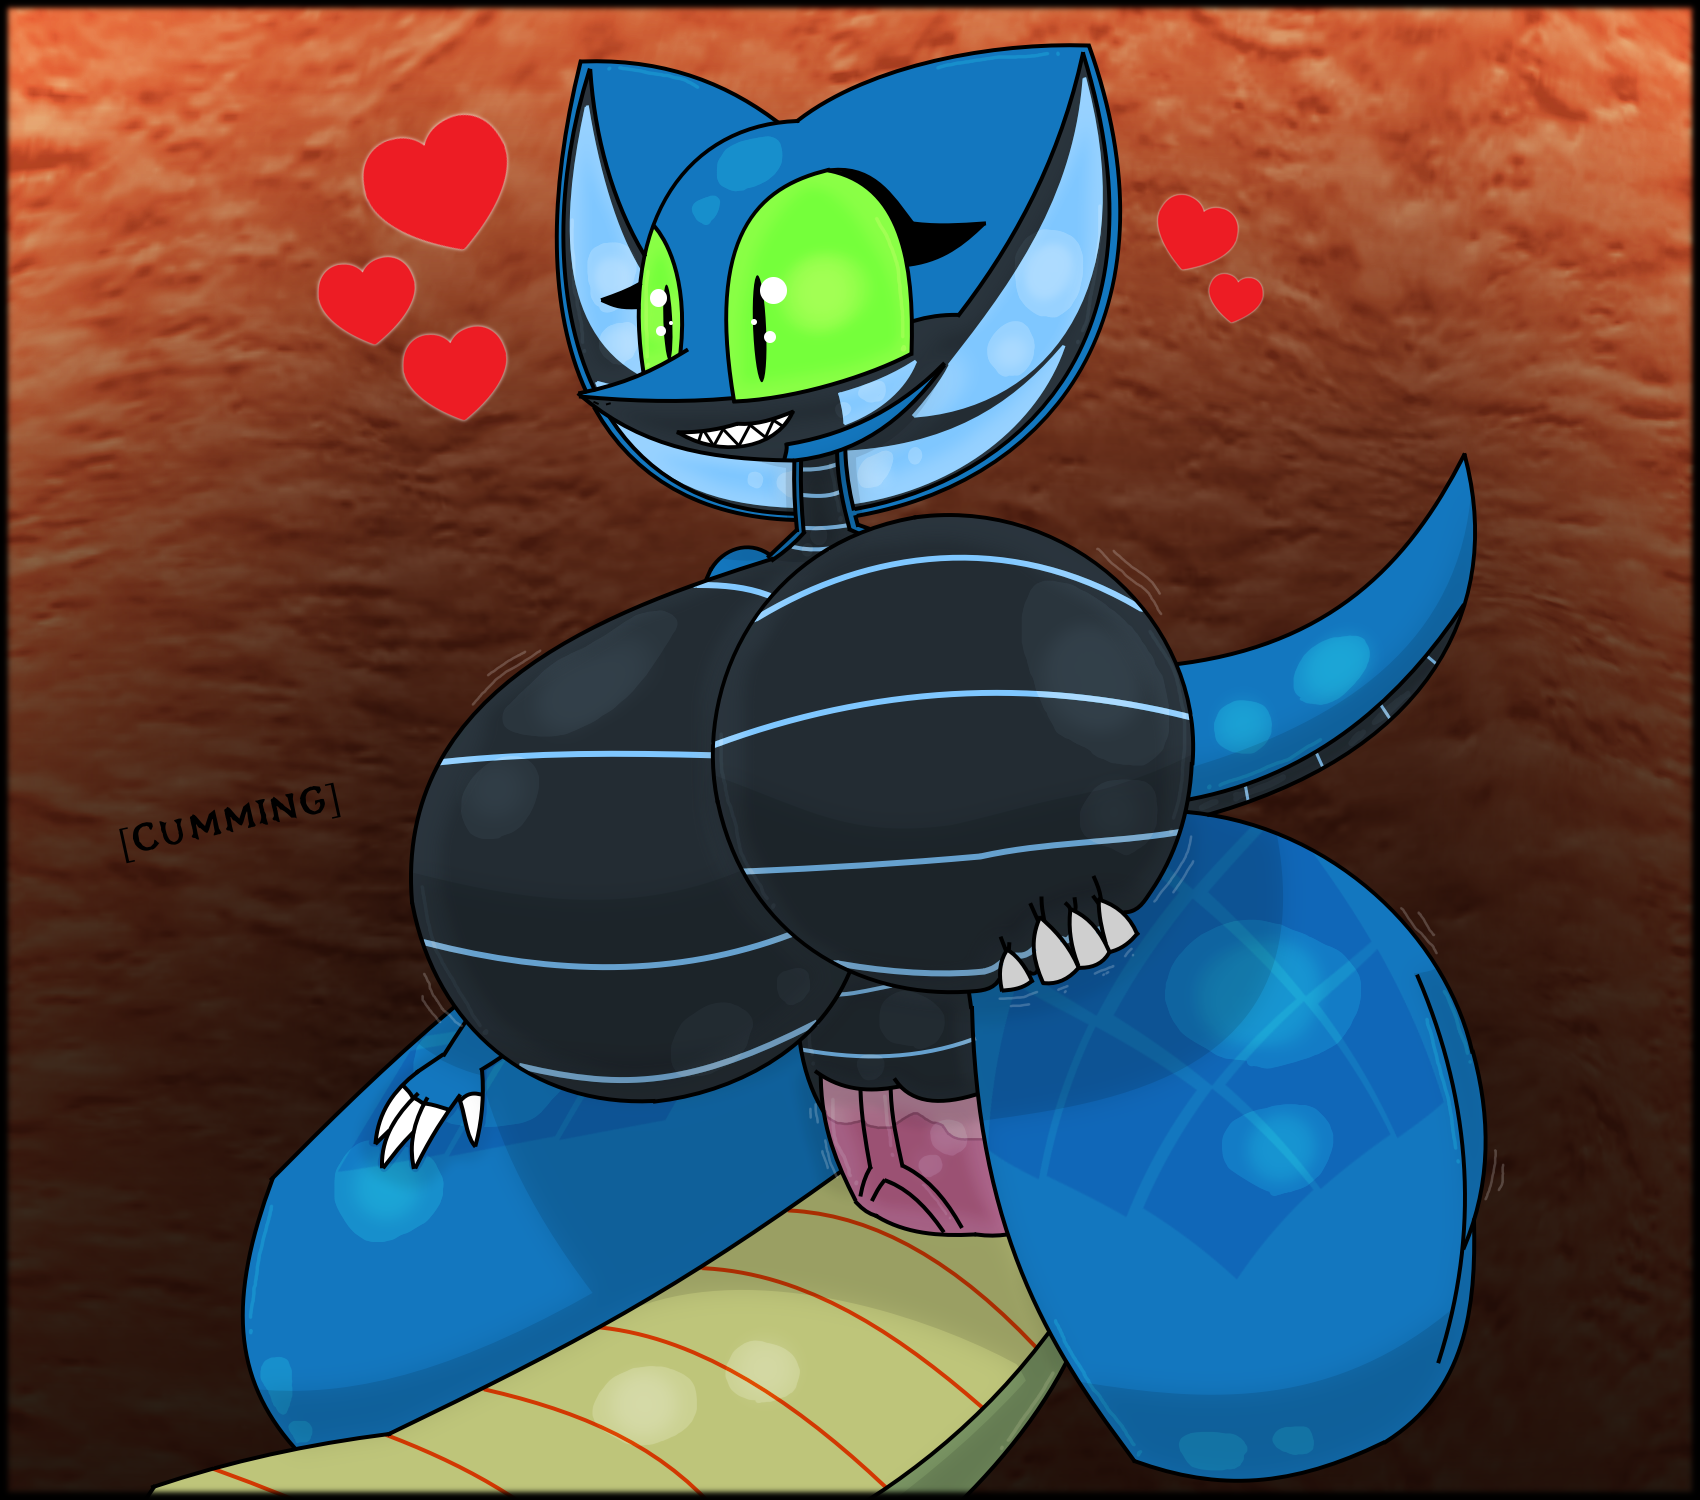
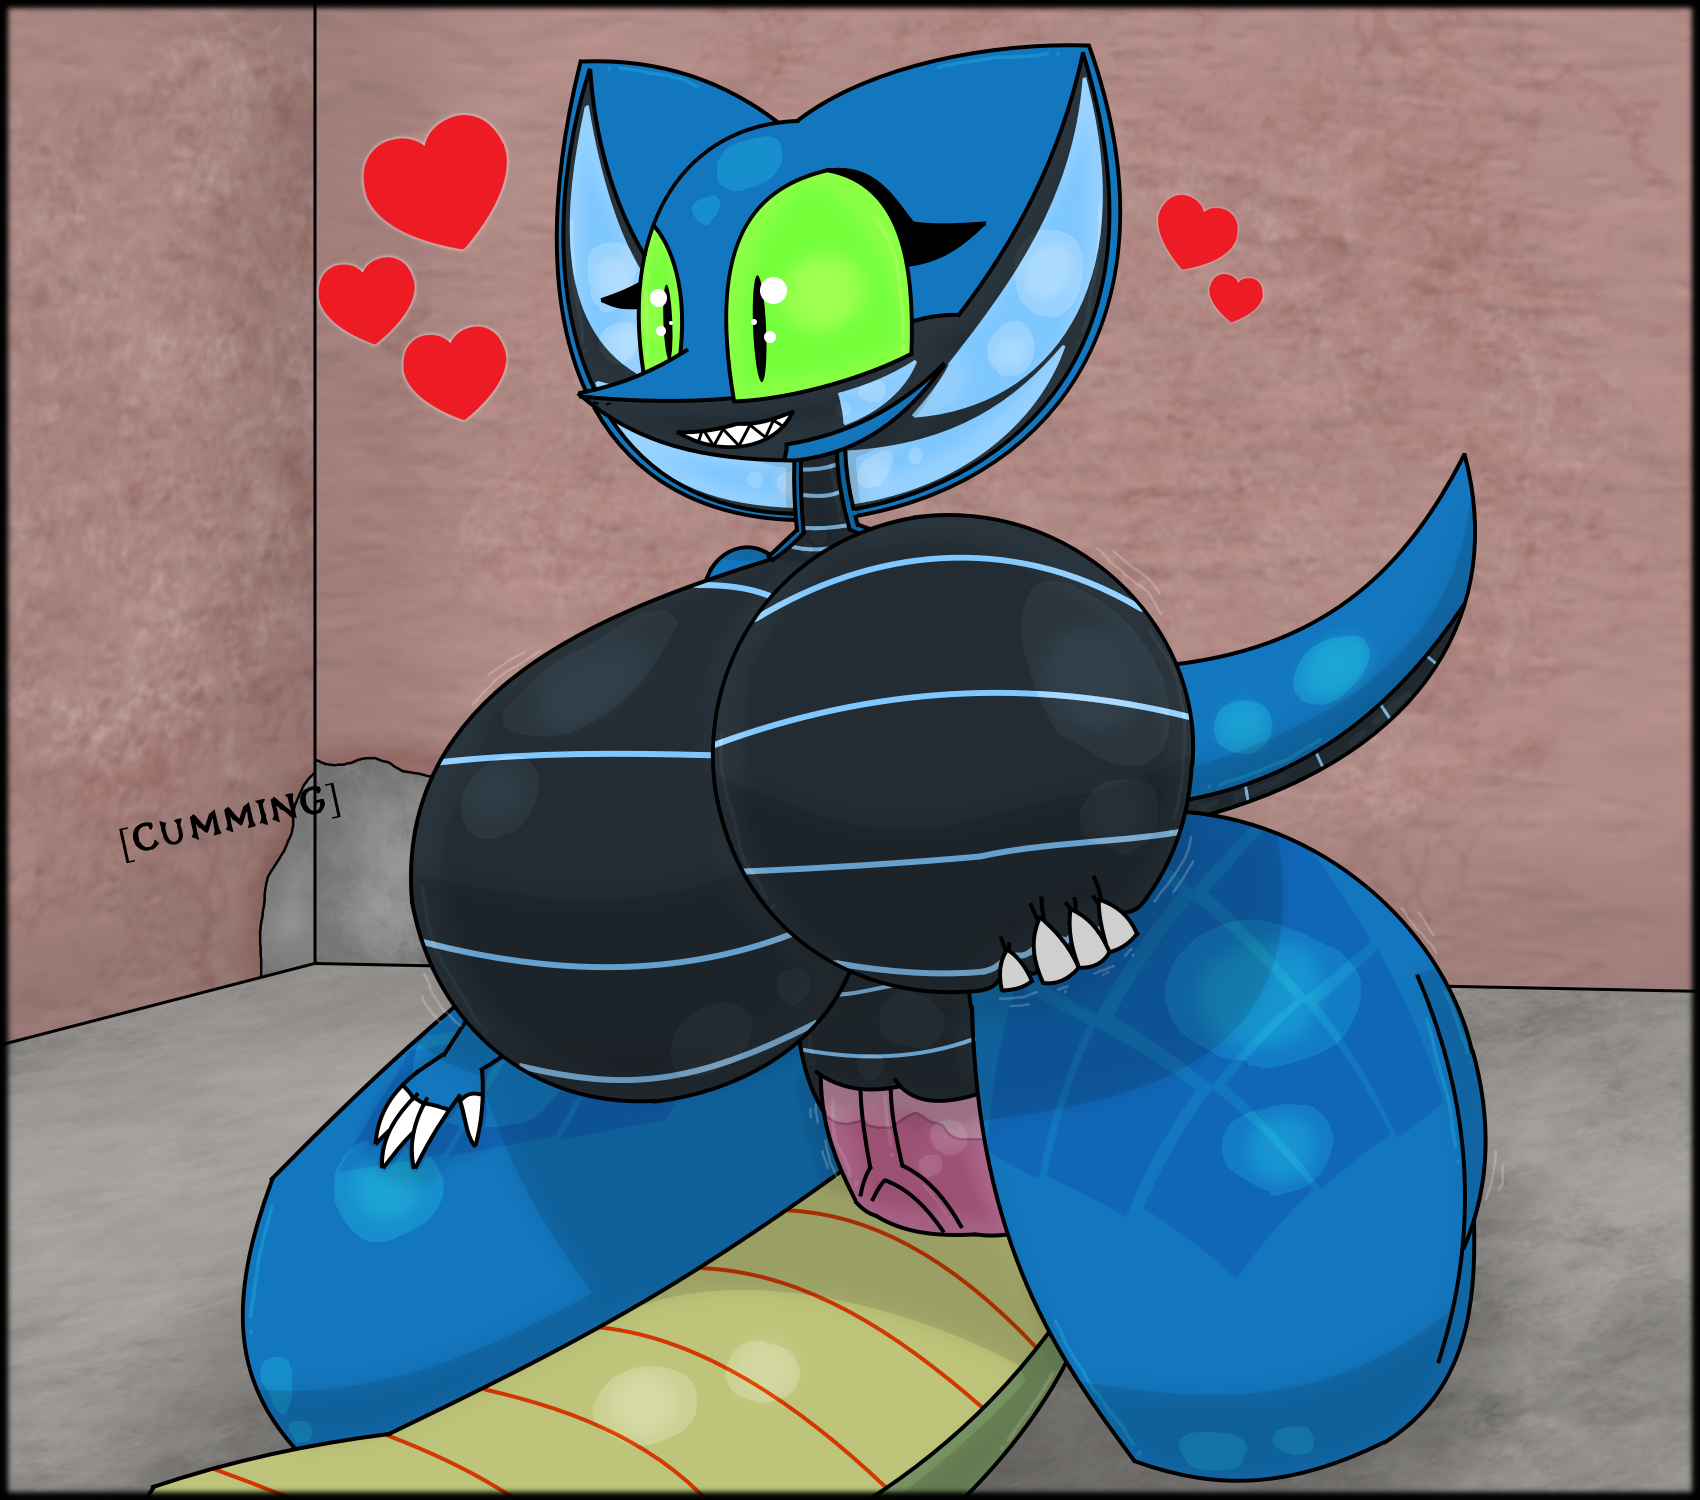
Updating Splosh In Medea

diff --git a/Images/Splosh In Medea.html b/Images/Splosh In Medea.html
@@ -14,6 +14,11 @@
 <br>
 Also I've felt better recently and started posting on FurAffinity again.<br>
 <br>
+<br>
+UPDATED IMAGE<br>
+Felt like the previous background was lazy so I made an actual area instead.<br>
+<a href="Splosh In Medea(OLD).png">Previous Version</a><br>
+<br>
 </p>
 </div>
 <p>

diff --git a/index.html b/index.html
@@ -20,7 +20,7 @@ This is the porn website of NotGodOkay and will store most of his medium quality
 <a href="Commenting Rules.html">Commenting Rules</a><br>
 And please be 18+.<br>
 Current Update<br>
-Added Splosh In Medea<br>
+Updated Splosh In Medea<br>
 </p>
 </div>
 <div>
